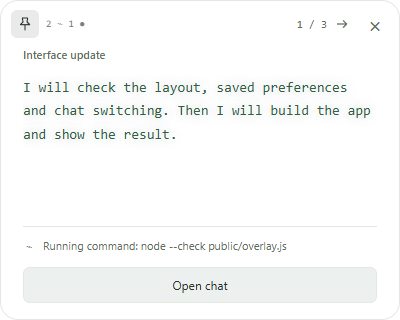
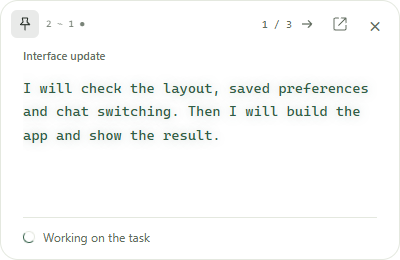
Update overlay settings and screenshots for 0.8.34 [skip ci]

diff --git a/README.md b/README.md
@@ -14,7 +14,7 @@ This repository contains **installers and documentation**. Application source co
 
 ![Codex Local desktop workspace with projects, a launch checklist and usage limits](assets/screenshots/en/workspace-light.png)
 
-<p align="center"><sub>Codex Local 0.8.33 · Actual interface with demo projects and conversations.</sub></p>
+<p align="center"><sub>Codex Local 0.8.34 · Actual interface with demo projects and conversations.</sub></p>
 
 ## Features
 
@@ -25,7 +25,7 @@ The interface is available in English and Russian. Choose your language in **Set
 | Limits at a glance | Remaining allowance, renewal times and estimated request usage in one place |
 | Resets and forecasts | Available resets with confirmation, plus announcements of possible resets from Codex Resets |
 | Multiple chats at once | Up to five side-by-side panes, or Focus: one large chat with cards for active and unread tasks |
-| Always-on-top window | Full latest progress and actions above your other apps, with pinning and active and unread chat switching |
+| Always-on-top window | Full latest progress and short statuses above your other apps, with pinning and active and unread chat switching |
 | Replies to messages | Reply to a message or selected passage with context above the composer; replies go first in a busy chat’s queue |
 | Forwarding between chats | Prepare a message with files and photos in another chat, add a comment and send when ready |
 | Quick commands | Send a saved reply with one click; add your own choices and remove ones you do not need |
@@ -41,13 +41,13 @@ The interface is available in English and Russian. Choose your language in **Set
 
 Open the window from the chat header. On Windows it stays above other apps and can open automatically when Codex Local is minimized or in the background. Pin it to prevent accidental dragging. The arrow switches between active and unread chats; viewing the window does not mark answers as read.
 
-The window shows the full latest progress message and current actions. When a task finishes, it displays **Work finished**; **Open chat** takes you to the full answer.
+The window shows the full latest progress message and a short status with a spinner: Thinking, Working on the task or Optimizing conversation. Commands and their output are hidden. When a task finishes, it displays **Work finished**; the **Open chat** icon beside Close is always available.
 
-In **Settings → Appearance**, choose a text style, window style, the theme color or your own color. Long text can scroll manually, scroll automatically from top to bottom in a loop, or grow the window within the screen. Set the default size, position, opacity and automatic opening there too. Disabling the feature hides the chat button and detailed settings. Supported browsers offer manual opening with Picture-in-Picture.
+In **Settings → Always-on-top window**, choose text and window styles from visual cards. **Test overlay** opens a real window using your draft size and appearance; **Default** restores the width and height to 400 × 260. Long text can scroll manually, scroll automatically from top to bottom in a loop, or grow the window within the screen. Hover pauses automatic scrolling for manual reading; moving away resumes it. Set the theme color or a custom color, position, opacity and automatic opening there too. Disabling the feature hides the chat button and detailed settings. Supported browsers offer manual opening with Picture-in-Picture.
 
 | Progress window | Compact settings |
 | --- | --- |
-| [![Always-on-top window with latest progress, actions, pinning and chat switching](assets/screenshots/en/overlay.png)](assets/screenshots/en/overlay.png) | [![Long-text modes, text and window styles, default size and automatic opening](assets/screenshots/en/overlay-settings.png)](assets/screenshots/en/overlay-settings.png) |
+| [![Always-on-top window with latest progress, status, pinning and chat switching](assets/screenshots/en/overlay.png)](assets/screenshots/en/overlay.png) | [![Dedicated overlay tab with visual style cards and a real test window](assets/screenshots/en/overlay-settings.png)](assets/screenshots/en/overlay-settings.png) |
 
 ## Rules with the Codex assistant
 
